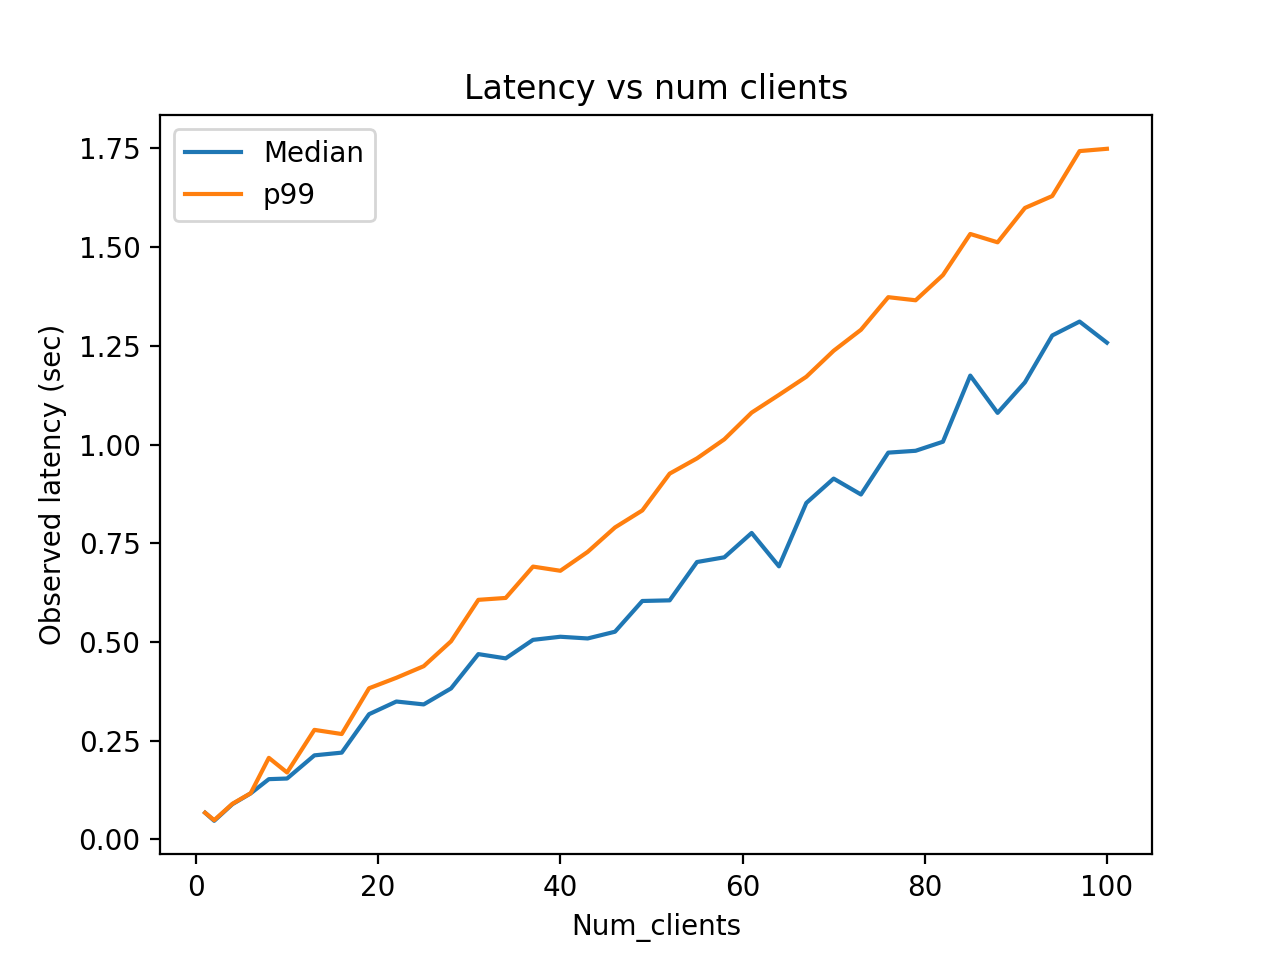
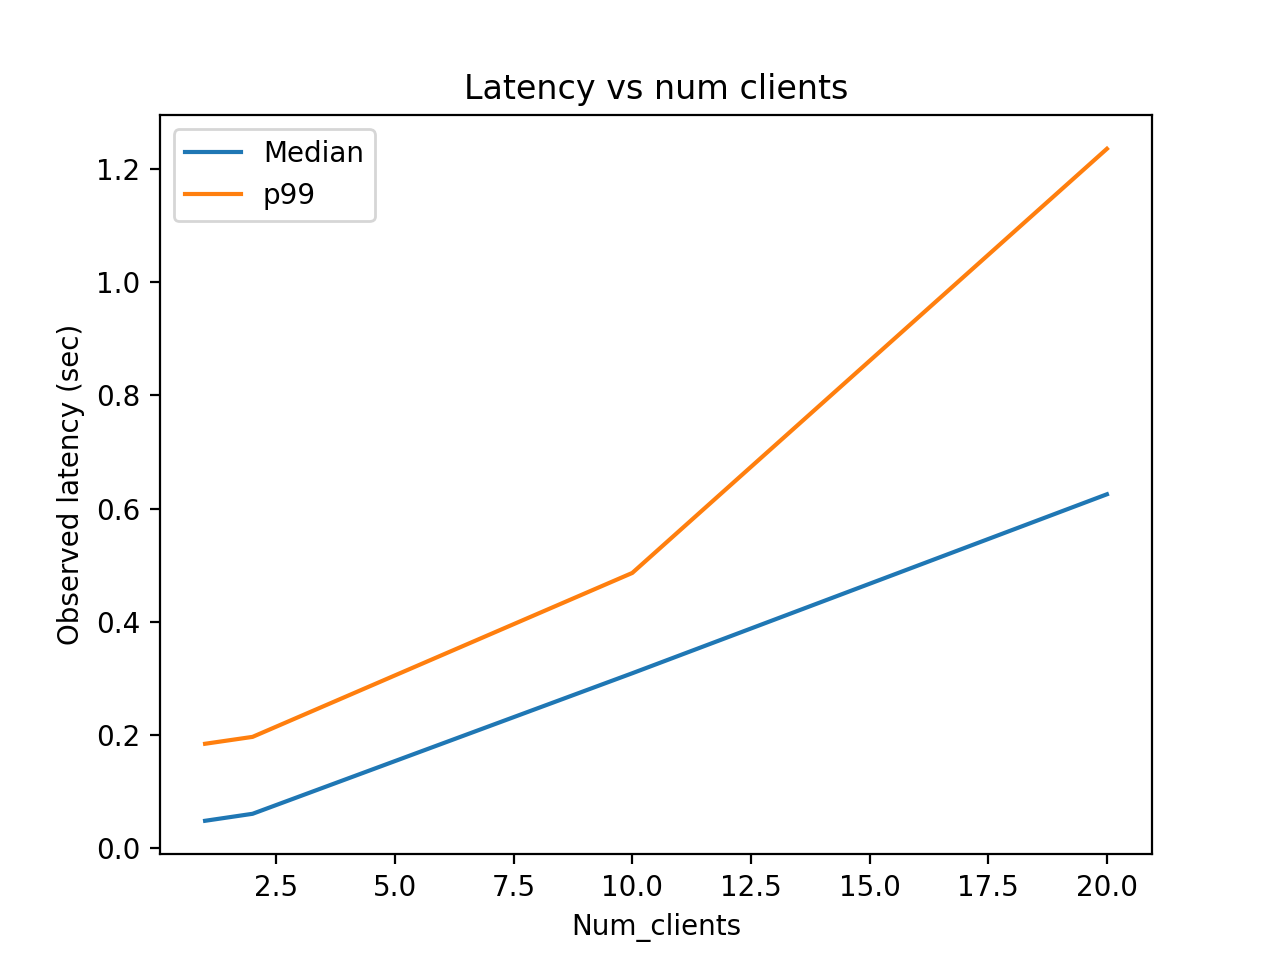
more changes

diff --git a/client/measure_perf.py b/client/measure_perf.py
@@ -11,6 +11,8 @@ import numpy as np
 
 import client
 
+NUM_OPS_PER_CLIENT = 20
+
 sys.path.append('../')
 
 # Calculate the harmonic series
@@ -21,11 +23,14 @@ probs = 1.0 / (np.arange(1, 101) * H)
 
 
 def measure_nil_ext_put(key, val):
-    t1 = time()
-    client.send_nil_ext_put(key, val)
-    t2 = time()
+    lat = []
+    for i in range(NUM_OPS_PER_CLIENT):
+        t1 = time()
+        client.send_nil_ext_put(key, val)
+        t2 = time()
+        lat.append(t2 - t1)
 
-    return t2 - t1
+    return lat
 
 def measure_get(key):
     t1 = time()
@@ -37,8 +42,10 @@ def measure_get(key):
 def run_put_exp():
     latencies, batch_throughputs = [], []
 
-    points = [1, 2, 4, 6,8]
-    points.extend([i for i in range(10, 101, 3)])
+    # points = [1, 2, 3, 4, 6,8, 9]
+    points = [1,2]
+    # points.extend([i for i in range(10, 101, 10)])
+    points.extend([i for i in range(10, 21, 10)])
     for thread_count in points:
         batch = []
         print(f"Collecting PUT stats with {thread_count} threads")
@@ -50,9 +57,9 @@ def run_put_exp():
             future_calls = {executor.submit(
                 measure_nil_ext_put, key, value) for _ in range(thread_count)}
             for completed_task in as_completed(future_calls):
-                batch.append(completed_task.result())
+                batch.extend(completed_task.result())
             t2 = time()
-            batch_throughputs.append((thread_count, thread_count / (t2 - t1)))
+            batch_throughputs.append((thread_count, thread_count * NUM_OPS_PER_CLIENT / (t2 - t1)))
         latencies.append((thread_count, batch))
 
     x, y = zip(*batch_throughputs)
@@ -69,9 +76,17 @@ def zipfian_op(write_per):
     op_choice = np.random.randint(1, 101)
     if op_choice < write_per:
         # Perform write operation.
-        return measure_nil_ext_put(key, value)
+        time1 = time()
+        client.send_nil_ext_put(key, value)
+        time2 = time()
+
+        return time2 - time1
     else:
-        return measure_get(key)
+        time1 = time()
+        client.send_get(key)
+        time2 = time()
+
+        return time2 - time1
 
 # Zipfian operation.
 def uniform_op(write_per):
@@ -94,7 +109,7 @@ def run_mixed_exp():
     num_clients = 10
     num_ops = 1000
 
-    points = [i for i in range(10, 101, 10)]
+    points = [i for i in range(10, 21, 10)]
     for write_per in points:
         batch = []
         print(f"Collecting Mixed stats for {write_per} percentage")
@@ -118,7 +133,7 @@ def run_get_exp():
     latencies, batch_throughputs = [], []
 
     points = [1, 2, 3, 4, 6, 8]
-    points.extend([i for i in range(10, 100, 3)])
+    points.extend([i for i in range(10, 100, 10)])
     # points.extend([i for i in range(100, 201, 20)]) 
     for thread_count in points:
         batch = []
@@ -139,10 +154,10 @@ def run_get_exp():
     latency_stats = [(np.percentile(i[1], 1), np.median(i[1]), np.percentile(i[1], 99)) for i in latencies]
     return x, y, latency_stats
 
-def collect_stats(run_exp, NUM_SERVERS=3):
+def collect_stats(run_exp, file_prefix, NUM_SERVERS=3):
     throughputs, latencies = [], []
     x_range = []
-    for i in range(10):
+    for i in range(1):
         x_range, thrp, lat = run_exp()
         throughputs.append(thrp)
         latencies.append(lat)
@@ -159,23 +174,23 @@ def collect_stats(run_exp, NUM_SERVERS=3):
     print("latencies", avg_lat)
     print("throughputs", avg_throughputs)
 
-    with open(f'plot_data/PUT-median-latency_num_clients.pickle', 'wb') as f:
+    with open(f'plot_data/{file_prefix}-median-latency_num_clients.pickle', 'wb') as f:
         pickle.dump((x_range, [y[0] for y in avg_lat]), f)
 
-    with open(f'plot_data/PUT-p99-latency_num_clients.pickle', 'wb') as f:
+    with open(f'plot_data/{file_prefix}-p99-latency_num_clients.pickle', 'wb') as f:
         pickle.dump((x_range, [y[1] for y in avg_lat]), f)
     
-    with open(f'plot_data/PUT-throughput_num_clients.pickle', 'wb') as f:
+    with open(f'plot_data/{file_prefix}-throughput_num_clients.pickle', 'wb') as f:
         pickle.dump((x_range, avg_throughputs), f)
 
-def plot_put_data():
+def plot_put_data(file_prefix):
     x_range, median_lat, p99_lat, avg_throughputs = [], [], [], []
 
-    with open(f'plot_data/PUT-median-latency_num_clients.pickle', 'rb') as f:
+    with open(f'plot_data/{file_prefix}-median-latency_num_clients.pickle', 'rb') as f:
         x_range, median_lat = pickle.load(f)
-    with open(f'plot_data/PUT-p99-latency_num_clients.pickle', 'rb') as f:
+    with open(f'plot_data/{file_prefix}-p99-latency_num_clients.pickle', 'rb') as f:
         x_range, p99_lat = pickle.load(f)
-    with open(f'plot_data/PUT-throughput_num_clients.pickle', 'rb') as f:
+    with open(f'plot_data/{file_prefix}-throughput_num_clients.pickle', 'rb') as f:
         x_range, avg_throughputs = pickle.load(f)
 
     plt.figure(dpi=200)
@@ -186,7 +201,7 @@ def plot_put_data():
     plt.xlabel("Num_clients")
     plt.ylabel("Observed latency (sec)")
     plt.legend()
-    plt.savefig(f'graphs/PUT-latency.png')
+    plt.savefig(f'graphs/{file_prefix}-latency.png')
     plt.clf()
 
     plt.figure(dpi=200)
@@ -195,7 +210,7 @@ def plot_put_data():
     plt.title("Throughput vs num clients")
     plt.xlabel("Num_clients")
     plt.ylabel("Observed Throughput (Op/sec)")
-    plt.savefig(f'graphs/PUT-throughput.png')
+    plt.savefig(f'graphs/{file_prefix}-throughput.png')
     plt.clf()
 
     plt.figure(dpi=200)
@@ -204,9 +219,12 @@ def plot_put_data():
     plt.title("Throughput vs Latency")
     plt.xlabel("Throughput")
     plt.ylabel("Latency")
-    plt.savefig(f'graphs/PUT-throughput-latency.png')
+    plt.savefig(f'graphs/{file_prefix}-throughput-latency.png')
     plt.clf()
 
 if __name__ == '__main__':
-    collect_stats(run_put_exp)
-    plot_put_data()
+    # collect_stats(run_put_exp, "PUT")
+    # plot_put_data("PUT")
+
+    collect_stats(run_mixed_exp, "MIXED")
+    plot_put_data("MIXED")

diff --git a/server/raft/dur_log_manager.py b/server/raft/dur_log_manager.py
@@ -5,6 +5,7 @@ import shelve
 from threading import Lock
 from threading import Thread
 from collections import deque
+import json
 
 from .config import NodeRole, globals
 # from .node import raft_node
@@ -45,27 +46,6 @@ class DurLogManager:
         log_me(f'Loaded {num_entries} log entries from disk')
         log_shelf.close()
 
-        # with open(RAFT_LOG_PATH, "rb") as log_file:
-        #     self.entries = pickle.load(log_file)
-
-    def init_log_exec(self):
-        #  Periodically execute entries from durability log.
-        while True:
-            if globals.state == NodeRole.Leader:
-                log_me(f"I am the leader, clearing out durability logs periodically")
-                # Start executing
-                entry = dur_log_manager.peek_head_entry()
-                if entry is not None:
-                    is_consensus, error = raft_node.serve_put_request(entry.key, entry.value)
-                    if is_consensus:
-                        self.sync_kv_store_with_logs()
-                        dur_log_manager.pop_head_entry()
-                    else:
-                        error = "No consensus was reached. Try again."
-                        print(error)
-
-            time.sleep(1.5)
-
     def append(self, request_type, key, value):
         print("DurLogManager append: dur_log_mgr =\n")
         log_entry = DurLogEntry(request_type, key, value)
@@ -84,8 +64,20 @@ class DurLogManager:
     # Call this once request at head has been executed (after consensus, if relevant)
     def pop_head_entry(self):
         with self.lock:
-            self.entries.pop(0)
-            self.flush_log_to_disk()
+            if len(self.entries) != 0:
+                self.entries.pop(0)
+            # self.flush_log_to_disk()
+
+    def package_all_log(self):
+        all_key = []
+        all_value = []
+        entry = DurLogEntry("PUT")
+        with self.lock:
+            for entry in self.entries:
+                all_key.append(entry.key)
+                all_value.append(entry.value)
+
+            return DurLogEntry("MULTI_PUT", json.dumps(all_key), json.dumps(all_value))
 
     def flush_log_to_disk(self):
         log_file = shelve.open(RAFT_LOG_PATH)
@@ -98,9 +90,6 @@ class DurLogManager:
         log_file.close()
         return "just testing"
 
-        # with open(RAFT_LOG_PATH, 'wb') as file:
-        #     pickle.dump(self.entries, file)
-
     def is_key_in_durable_log(self, key):
         for entry in self.entries:
             if entry.key == key:
@@ -111,7 +100,10 @@ class DurLogManager:
         log_entry = DurLogEntry("PUT", key, value)
         if (log_entry in self.entries):
             self.entries.remove(log_entry)
-            with self.lock:
-                self.flush_log_to_disk()
+            # with self.lock:
+            #     self.flush_log_to_disk()
+
+    def clear_all_entries(self):
+        self.entries.clear()
 
 dur_log_manager = DurLogManager()

diff --git a/client/client.py b/client/client.py
@@ -86,10 +86,10 @@ def send_nil_ext_put(key, val, logging=False):
     # supermajority = 𝑓 + ⌈𝑓 /2⌉ + 1
     ft =  len(NODE_IPS) // 2
     supermajority = ft + (ft + 1) // 2 + 1
-    print(f"wait for supermajority {supermajority}")
+    # print(f"wait for supermajority {supermajority}")
 
     with concurrent.futures.ThreadPoolExecutor(max_workers=4) as executor:
-        print(f"{datetime.now()}: Starting rpc")
+        # print(f"{datetime.now()}: Starting rpc")
         # Launch 10 tasks in parallel
         futures = [executor.submit(send_put_ip, ip, key, val) for ip in nodes]
 
@@ -105,7 +105,7 @@ def send_nil_ext_put(key, val, logging=False):
                     if result == LEADER_IP:
                         leader_sent = True
                     # print(f"Task {result} completed")
-                    print(f"{datetime.now()}: received from {result}")
+                    # print(f"{datetime.now()}: received from {result}")
                     completed_tasks += 1
                     done_ips.append(result)
 

diff --git a/client/single_client.py b/client/single_client.py
@@ -22,11 +22,11 @@ def nil_ext_put(key, val):
 if __name__ == "__main__":
     lat = []
     time1 = time()
-    for i in range(100):
+    for i in range(50):
         a = nil_ext_put("1", "1")
         lat.append(a)
     time2 = time()
 
     latency_stats = [np.median(lat), np.percentile(lat, 99)]
     print("latency stats", latency_stats)
-    print("throughput", 100.0 / (time2 - time1))
+    print("throughput", 50.0 / (time2 - time1))

diff --git a/server/raft/utils.py b/server/raft/utils.py
@@ -17,7 +17,7 @@ def random_timeout(low, high):
 
 
 def log_me(log: str):
-    # Add a print lock?
-    # return
-    pass
-    #print(f"[LOG]: {datetime.now()} {log}")
+    # # Add a print lock?
+    # # return
+    # pass
+    print(f"[LOG]: {datetime.now()} {log}")
